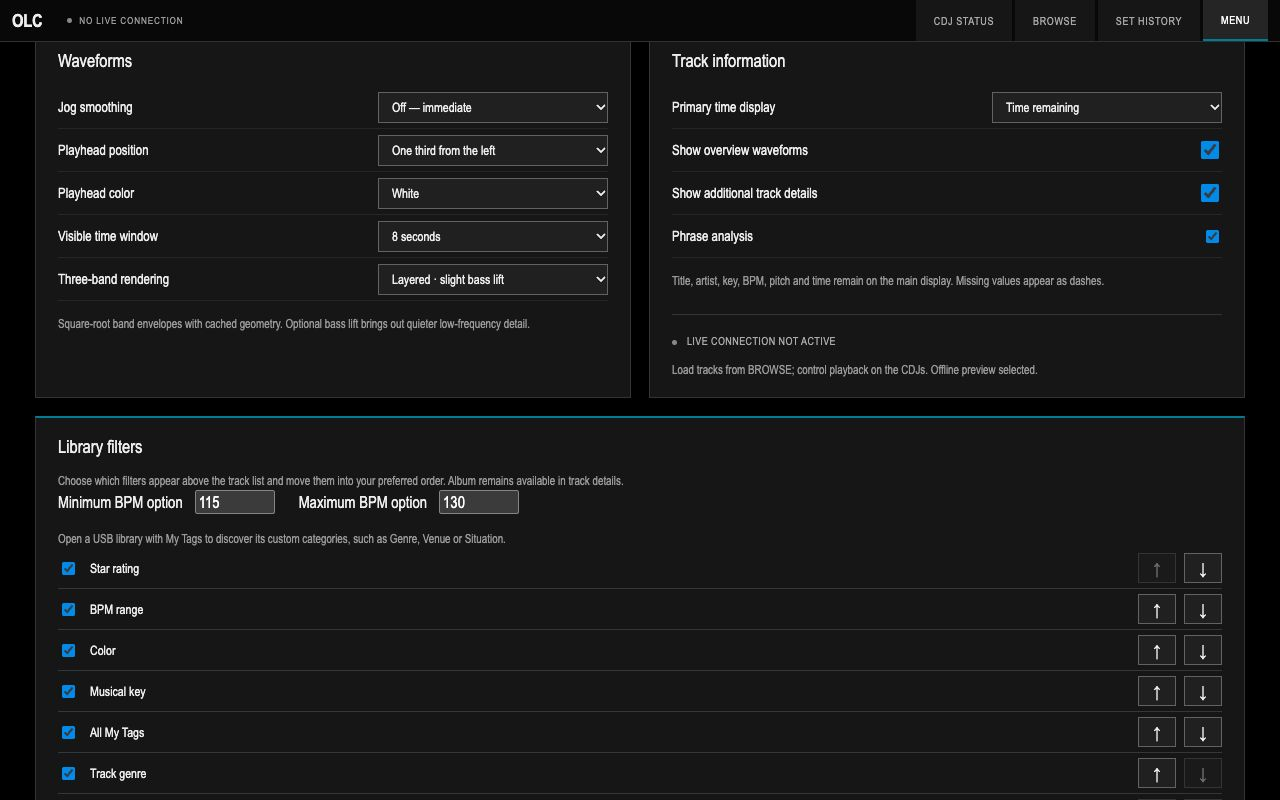
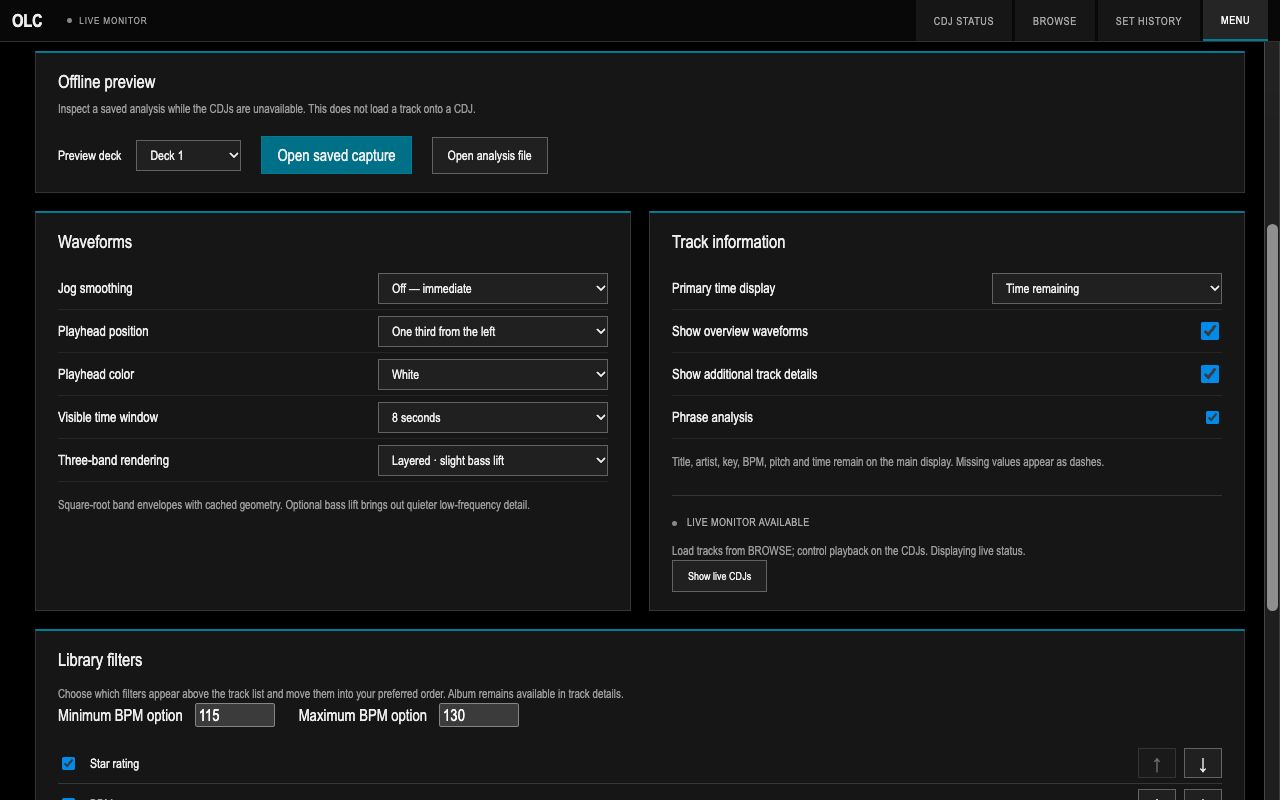
Show simulated active sessions throughout the screenshot gallery

diff --git a/docs/screenshots.md b/docs/screenshots.md
@@ -1,28 +1,28 @@
 # Application screenshots
 
-Captured from the OLC production interface at 1280 × 800. These images show a fresh, disconnected session with no library or saved sets. The Menu is scrollable and is shown in several views. Network choices depend on the host.
+Captured from the OLC production interface at 1280 × 800. These images simulate active use with fictional track names, generated waveforms, a populated USB library and recorded sessions. They illustrate the production interface; they are not evidence of a live hardware connection. The Menu is scrollable and is shown in several views. Network choices depend on the host.
 
 ## CDJ Status
 
-Two-deck status, track information and waveform areas, waiting for a connection.
+Two playing decks with three-band waveforms, phrase sections, timing and track information.
 
 ![CDJ Status](screenshots/cdj-status.png)
 
 ## Browse
 
-Library navigation, search and filters before a USB library is connected.
+A populated 16-track USB library with playlists, ratings, musical keys and tempo.
 
 ![Browse](screenshots/browse.png)
 
 ## Set History
 
-The initial session screen before recording or importing a set.
+An active 12-track recording with session details and a saved past set.
 
 ![Set History](screenshots/set-history.png)
 
 ## Menu — connections
 
-CDJ connections, desktop service settings and offline preview.
+Configured Ethernet discovery, a LAN address and offline preview controls.
 
 ![Menu — connections](screenshots/menu-connections.png)
 
@@ -34,7 +34,7 @@ Waveform, track information and library filter preferences.
 
 ## Menu — additional library filters
 
-The lower part of the scrollable library filter list.
+Library filter ordering and an automatically discovered My Tag category.
 
 ![Menu — additional library filters](screenshots/menu-library-filters.png)
 

diff --git a/README.md b/README.md
@@ -33,7 +33,7 @@ Use manual-IP connections in MENU, or select a CDJ-facing interface and restart.
 
 ## Screenshots
 
-[View all application screens](docs/screenshots.md).
+[View all application screens](docs/screenshots.md), illustrated with simulated active-session data.
 
 ![OLC Browse](docs/screenshots/browse.png)
 
